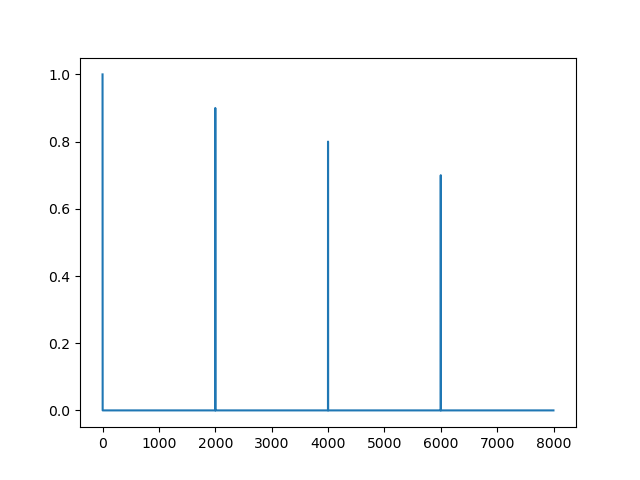
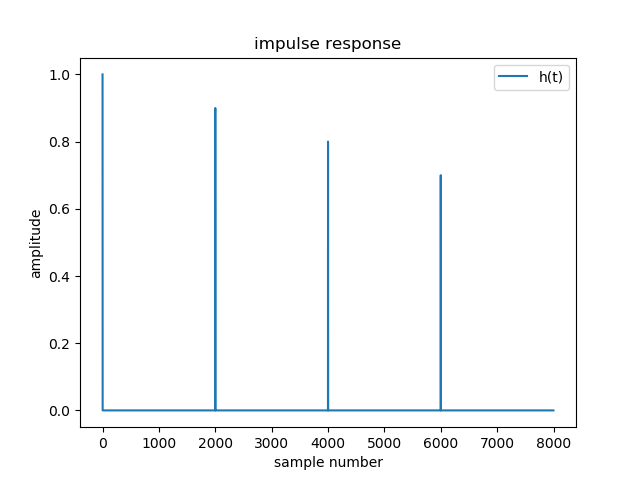
added the graphs decoration and titles for task1

diff --git a/1st-task/soundEcho.py b/1st-task/soundEcho.py
@@ -24,8 +24,12 @@ x75[int(.75 * fs):int(audioLength + .75 * fs)] = .7 * audio
 y = (list(audio) + list(np.zeros(fs))) + x25 + x50 + x75
 
 sd.play(y[0:audioLength].astype(np.dtype('i2')), fs)
-plt.plot(y)
-plt.plot(audio)
+plt.title('audio with and before echo ')
+plt.xlabel('sample number')
+plt.ylabel('amplitude')
+plt.plot(y, label = 'y(t)')
+plt.plot(audio, label = 'x(t)')
+plt.legend()
 plt.show()
 time.sleep(duration_s)
 
@@ -35,14 +39,18 @@ wavfile.write("audio_with_echo_after_using_given_formula.wav",fs,y[0:audioLength
 # C. find and plot the impulse response of the echo generation system
 # h is the impluse response of the system
 h = np.zeros(secondSize)
+
 h[int(0 * secondSize)] = 1
 h[int(.25 * secondSize)] = .9
 h[int(.5 * secondSize)] = .8
 h[int(.75 * secondSize)] = .7
 
 # plot h
-plt.plot(h)
-
+plt.title('impulse response')
+plt.xlabel('sample number')
+plt.ylabel('amplitude')
+plt.plot(h, label = 'h(t)')
+plt.legend()
 #output impulse_response.png
 plt.savefig('sample-graph.png')
 
@@ -68,8 +76,8 @@ time.sleep(duration_s)
 wavfile.write("audio_with_echo_after_convolution.wav",fs,echoedAudio[0:audioLength].astype(np.dtype('i2')))
 
 #get x[n] given y[n](echoedAudio) and h[n] (h)
-xn_fft=fft.fft(echoedAudio,N)/fft.fft(h,N)
-xn=fft.ifft(xn_fft)
+xn_fft=fft(echoedAudio,N)/fft(h,N)
+xn=ifft(xn_fft)
 xn=np.real(xn)
 xn=np.around(xn)
 xn=np.array(xn)
